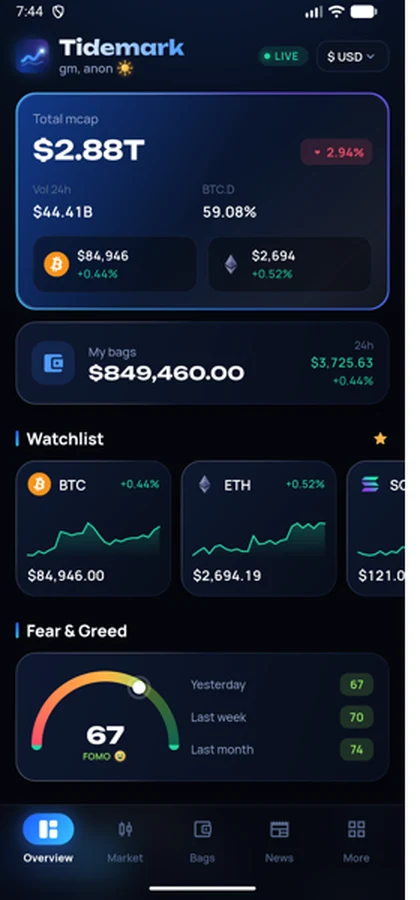
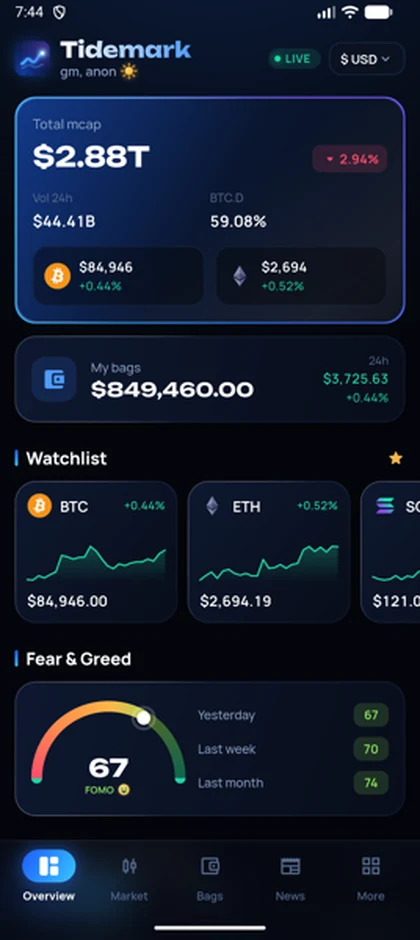
Tidemark: убрана белая полоска на скриншотах

diff --git a/index.html b/index.html
@@ -130,7 +130,7 @@
   </div>
   <div class="visual">
     <div class="frame tilt"><div class="track">
-      <div class="slide" data-cap="tm.s1"><img src="img/tm-home.webp" alt="Tidemark" loading="lazy" decoding="async"></div>
+      <div class="slide" data-cap="tm.s1"><img src="img/tm-home.webp?v=2" alt="Tidemark" loading="lazy" decoding="async"></div>
       <div class="slide" data-cap="tm.s2"><div class="sc" style="--sbg:linear-gradient(180deg,#0d1b3d,#0a1028);--sm:#8fa3d8">
         <div class="top"><span><span class="coin" style="background:#f7931a">₿</span>Bitcoin · BTC</span><span style="color:#fbbf24">★</span></div>
         <div class="tm-price">$ 112 480</div>
@@ -149,7 +149,7 @@
         <div class="row" style="margin-top:10px"><span><span class="coin" style="background:#627eea">Ξ</span>Ethereum</span><b>$ 4 120</b></div>
         <div class="row"><span><span class="coin" style="background:linear-gradient(135deg,#9945ff,#14f195)">S</span>Solana</span><b>$ 238,5</b></div>
       </div></div>
-      <div class="slide" data-cap="tm.s3"><img src="img/tm-splash.webp" alt="Tidemark" loading="lazy" decoding="async"></div>
+      <div class="slide" data-cap="tm.s3"><img src="img/tm-splash.webp?v=2" alt="Tidemark" loading="lazy" decoding="async"></div>
     </div></div>
     <div class="car-nav"><button class="prev" aria-label="←"><svg><use href="#prev"/></svg></button><div class="dots"></div><button class="next" aria-label="→"><svg><use href="#next"/></svg></button></div>
     <div class="cap"></div>
